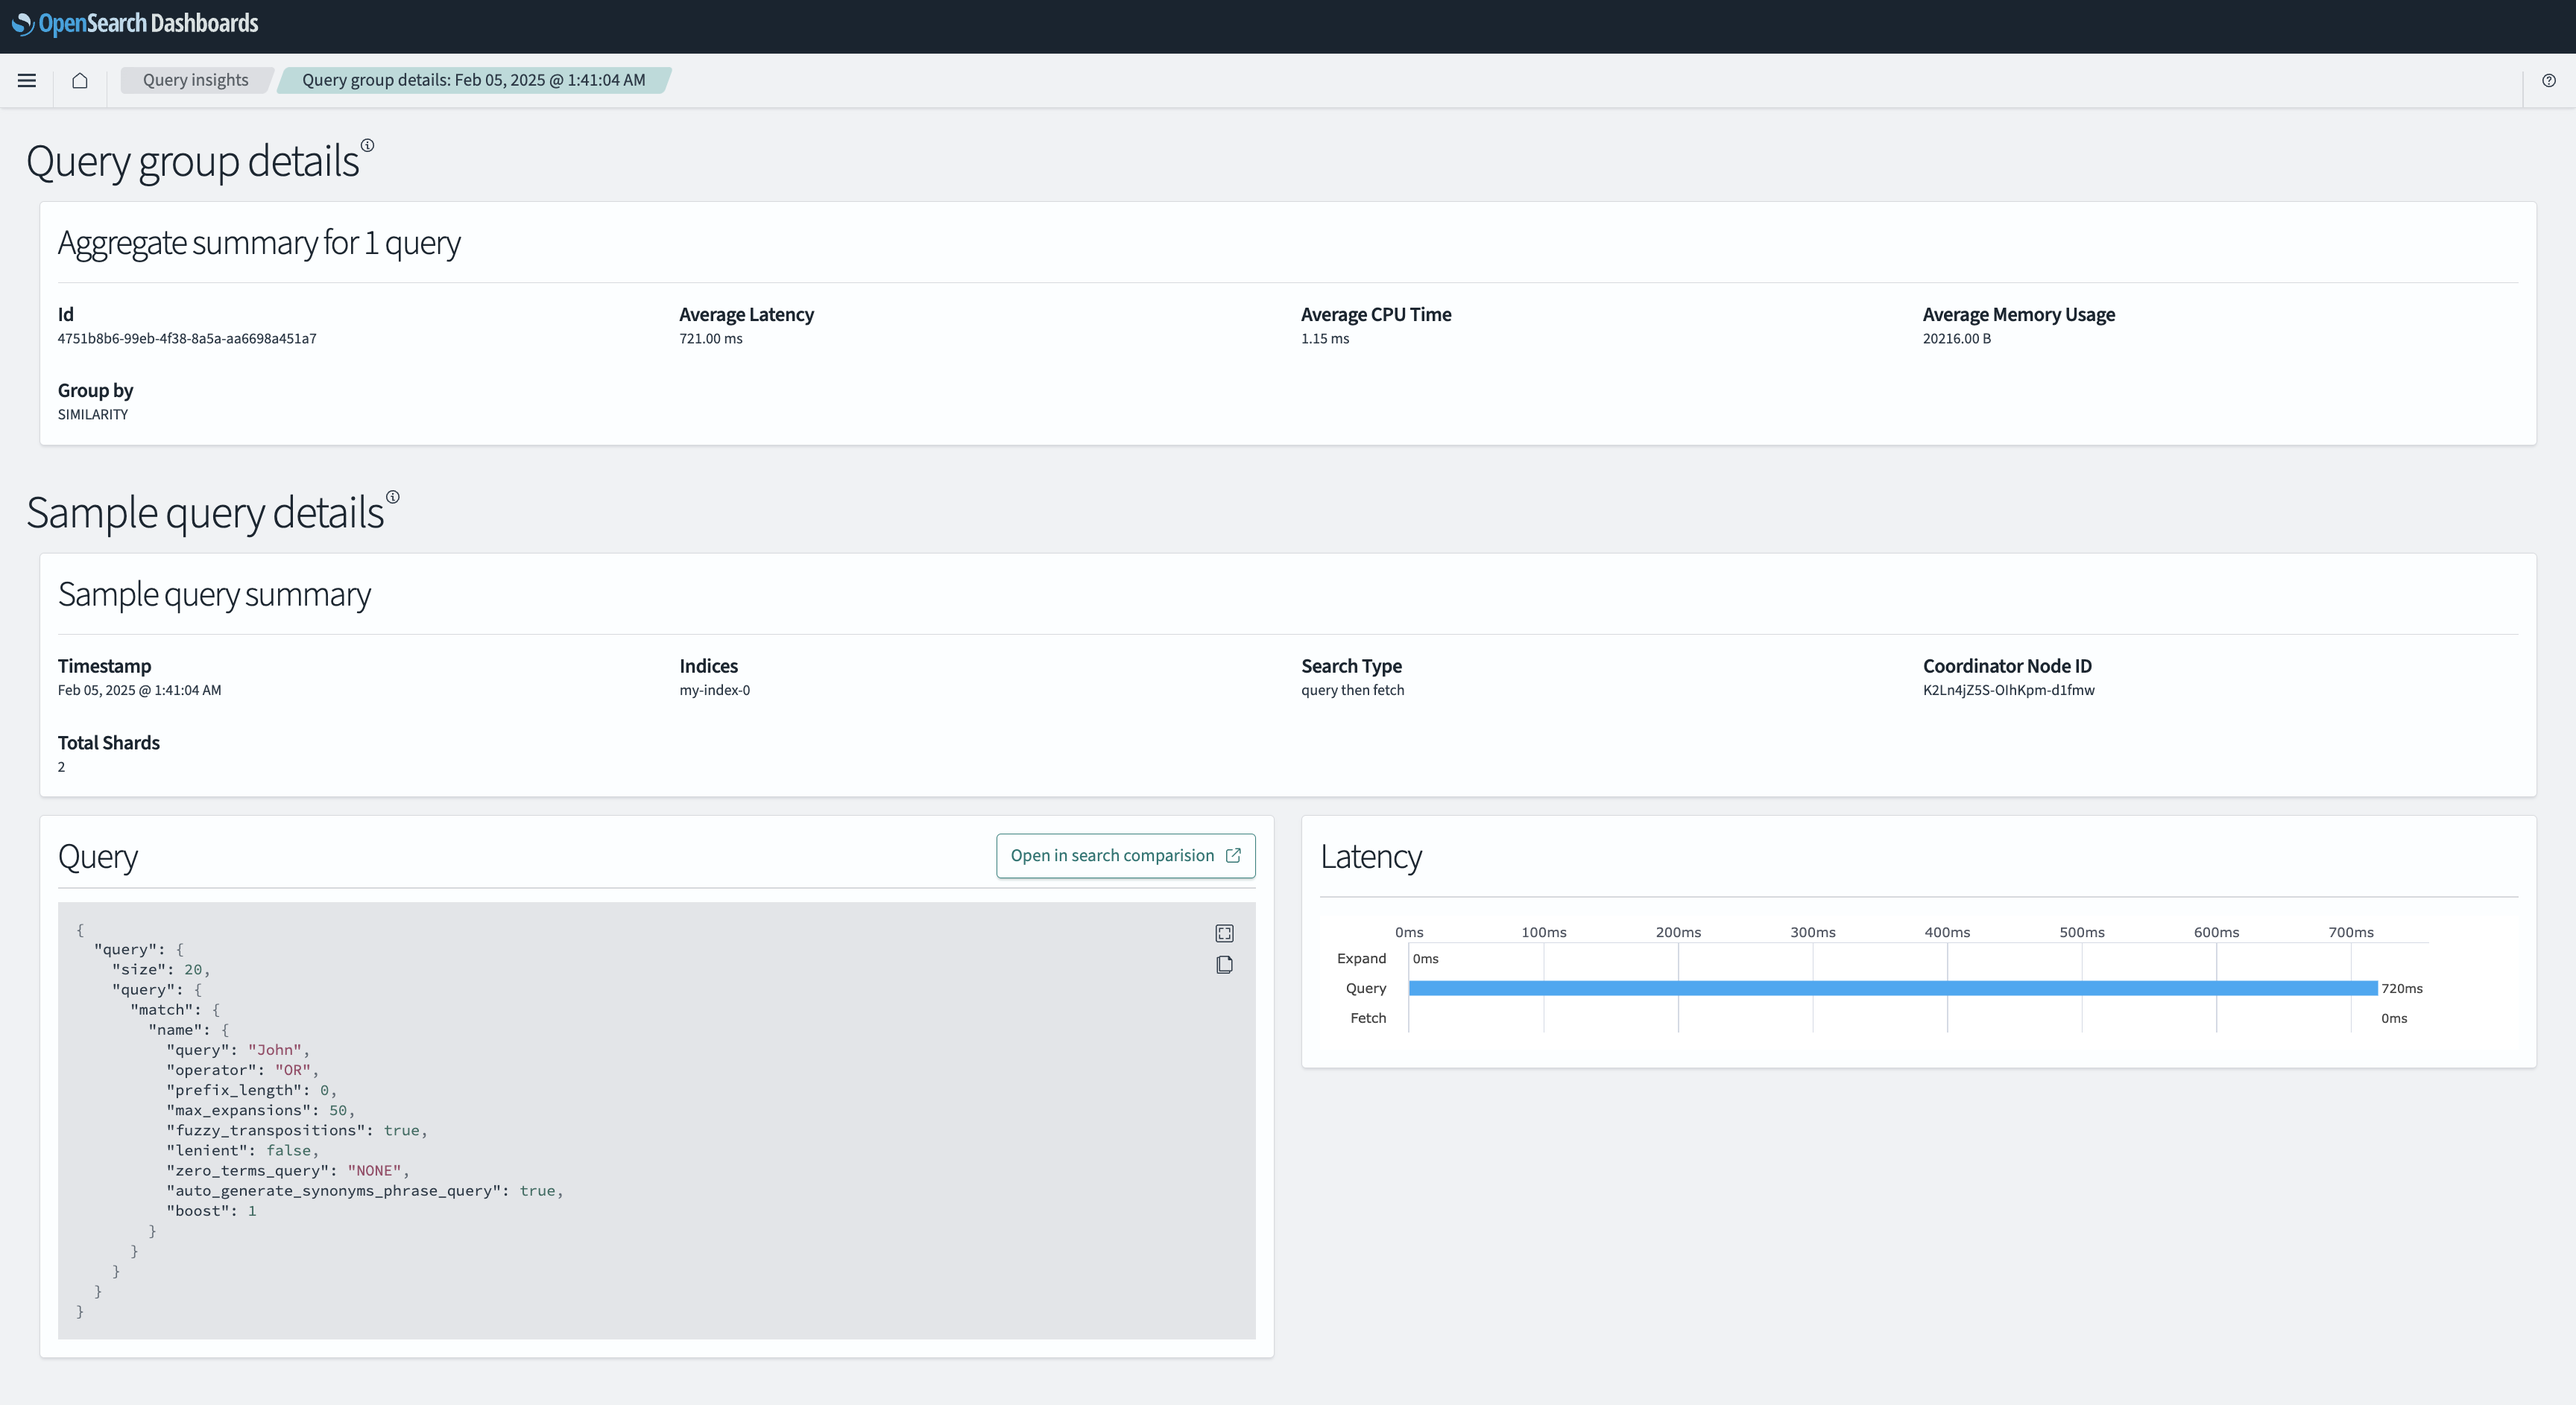
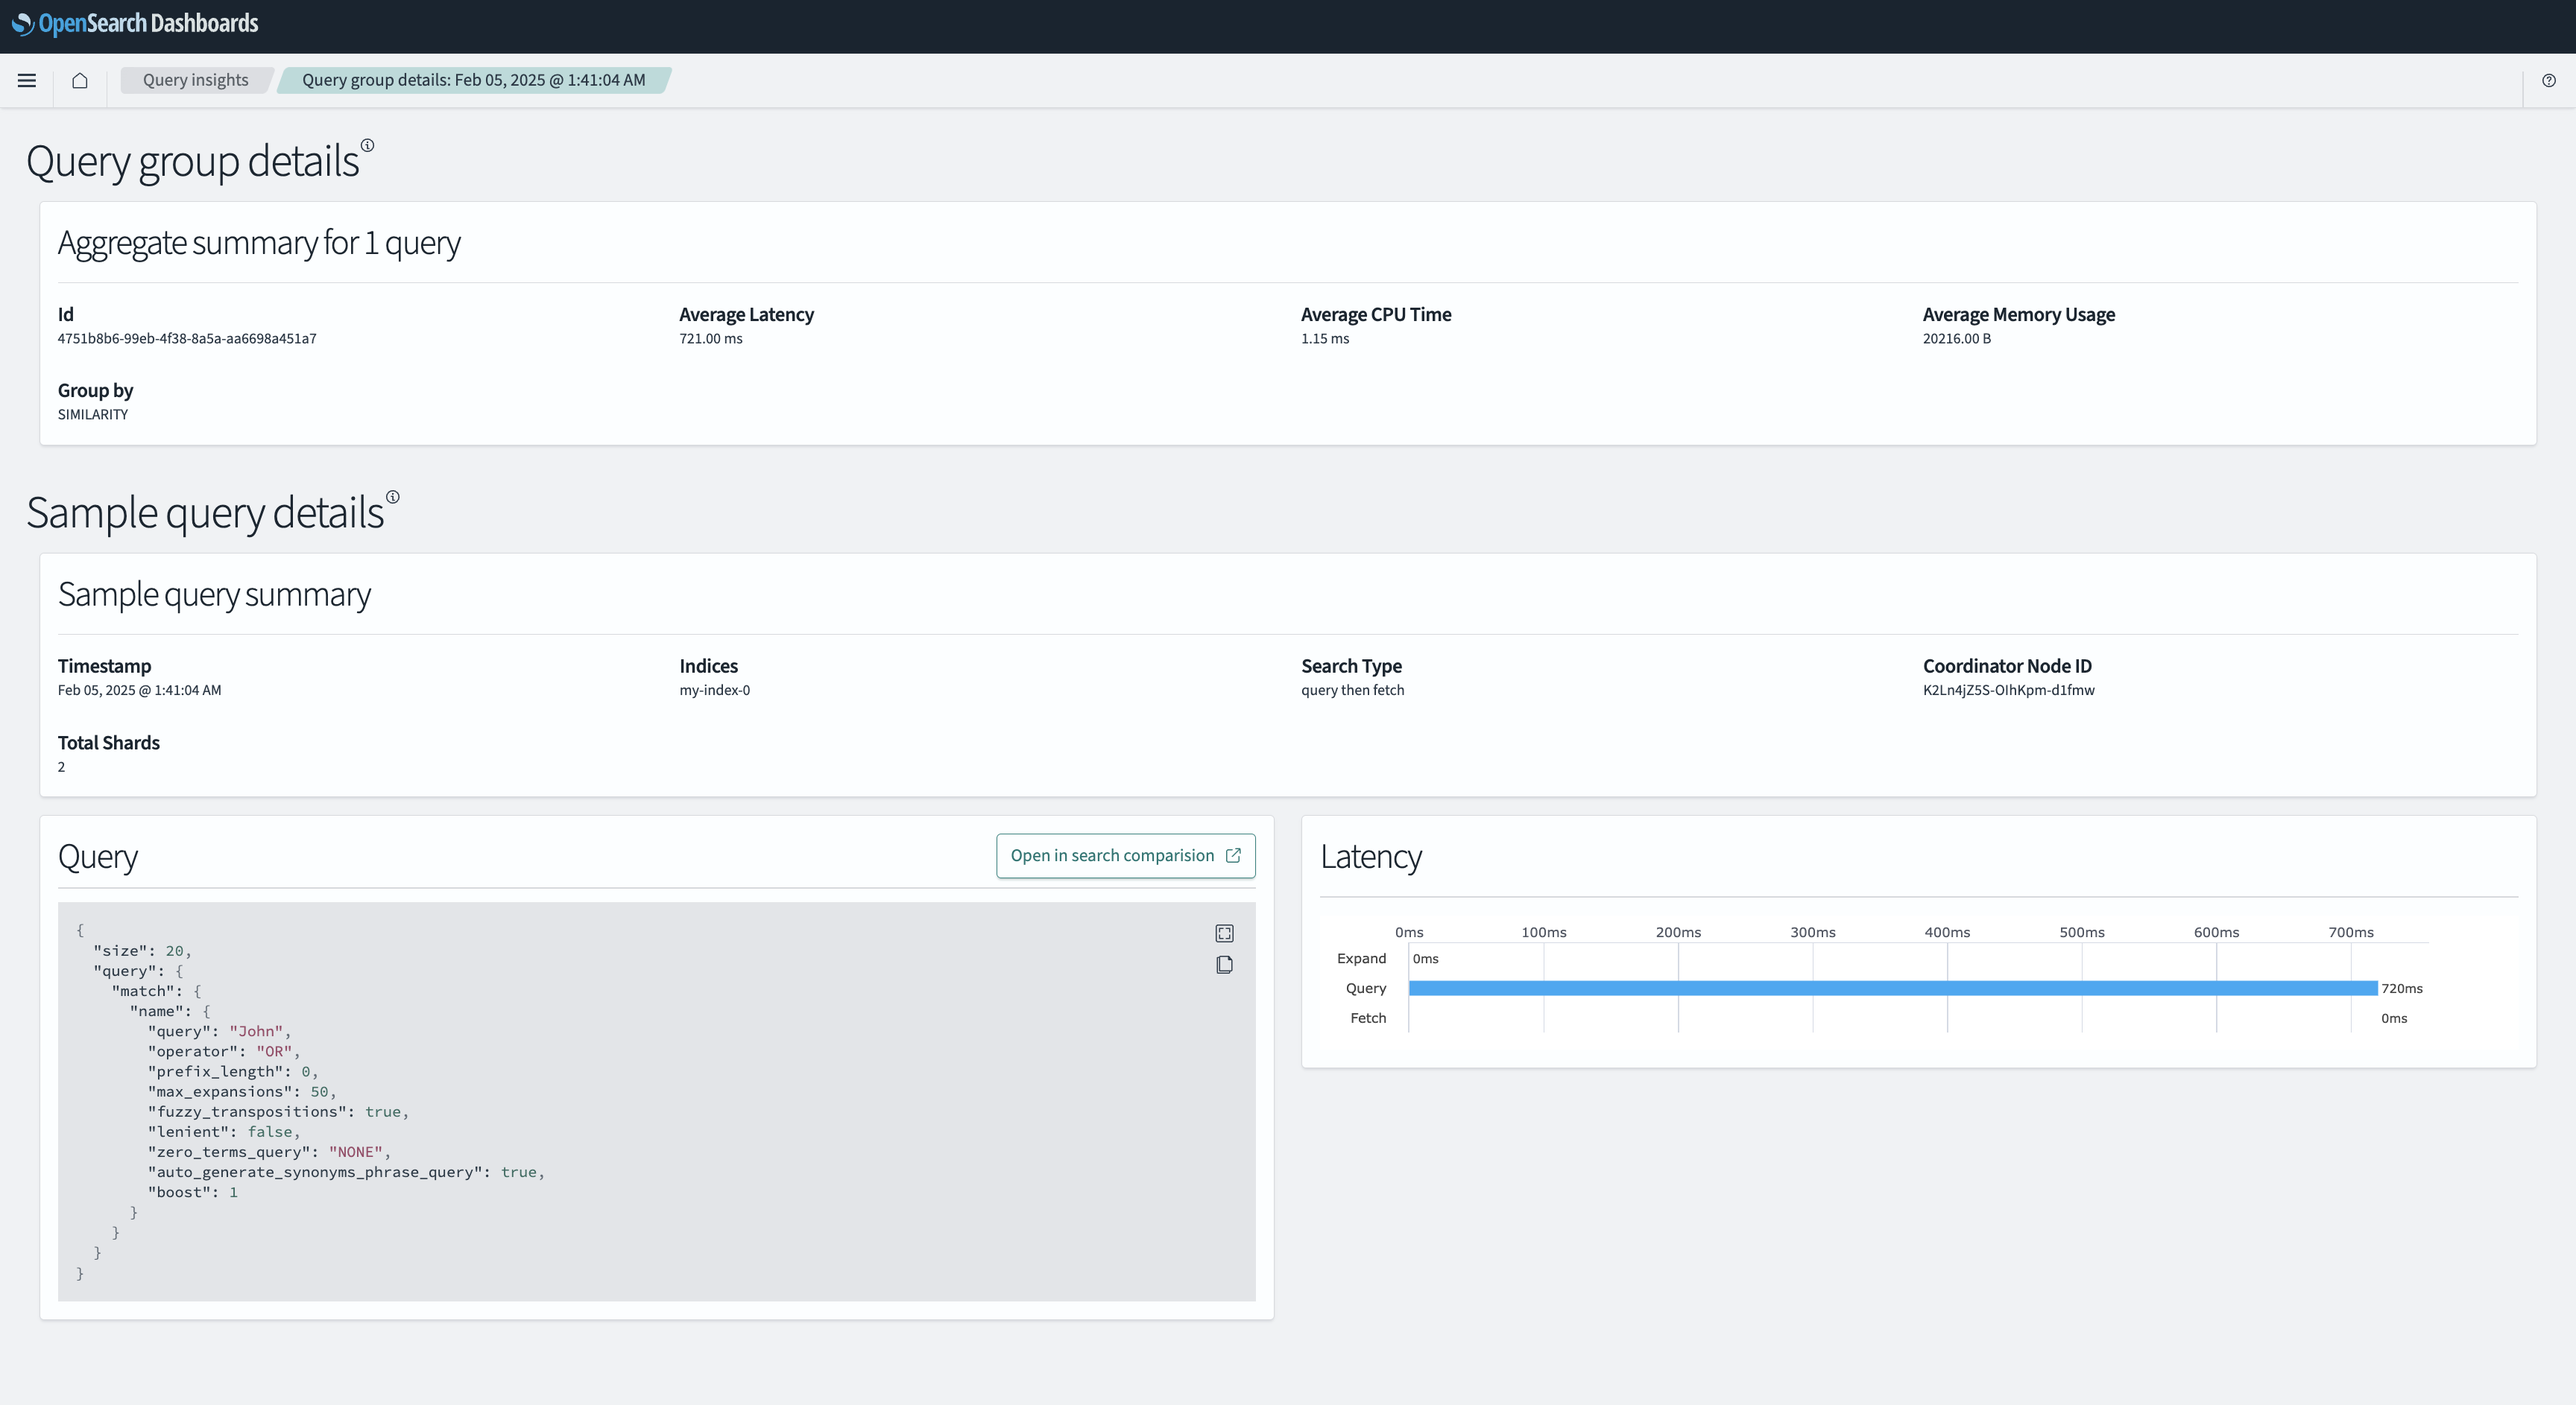
Added source as string and truncation to query insights

Changed region(s): [[0.0, 0.9226, 0.5, 0.9533], [0.0625, 0.7073, 0.2188, 0.8611], [0.0312, 0.6766, 0.0625, 0.7073]]

diff --git a/_observing-your-data/query-insights/top-n-queries.md b/_observing-your-data/query-insights/top-n-queries.md
@@ -70,6 +70,22 @@ PUT _cluster/settings
 ```
 {% include copy-curl.html %}
 
+## Configuring source truncation
+
+To manage memory usage and response size, you can configure the maximum length (in characters) of the query source stored in top N query records. The default `max_source_length` is `524288` characters (1 MB). For example, to limit the source length to 1000 characters, update the `search.insights.top_queries.max_source_length` setting:
+
+```json
+PUT _cluster/settings
+{
+  "persistent" : {
+    "search.insights.top_queries.max_source_length" : 1000
+  }
+}
+```
+{% include copy-curl.html %}
+
+Setting this value to `0` will completely truncate the source, storing no query source information. When the source exceeds the maximum length, it is hard truncated at the character limit, and the `source_truncated` field in the response will be set to `true`.
+
 ## Monitoring current top N queries 
 
 You can use the Insights API endpoint to retrieve the top N queries for the current time window. This API returns top N `latency` results by default.
@@ -110,42 +126,7 @@ Parameter | Data type     | Description
       "indices" : [
         "my-index-0"
       ],
-      "source" : {
-        "size" : 20,
-        "query" : {
-          "bool" : {
-            "must" : [
-              {
-                "match_phrase" : {
-                  "message" : {
-                    "query" : "document",
-                    "slop" : 0,
-                    "zero_terms_query" : "NONE",
-                    "boost" : 1.0
-                  }
-                }
-              },
-              {
-                "match" : {
-                  "user.id" : {
-                    "query" : "userId",
-                    "operator" : "OR",
-                    "prefix_length" : 0,
-                    "max_expansions" : 50,
-                    "fuzzy_transpositions" : true,
-                    "lenient" : false,
-                    "zero_terms_query" : "NONE",
-                    "auto_generate_synonyms_phrase_query" : true,
-                    "boost" : 1.0
-                  }
-                }
-              }
-            ],
-            "adjust_pure_negative" : true,
-            "boost" : 1.0
-          }
-        }
-      },
+      "source" : """{"size":20,"query":{"bool":{"must":[{"match_phrase":{"message":{"query":"document","slop":0,"zero_terms_query":"NONE","boost":1.0}}},{"match":{"user.id":{"query":"userId","operator":"OR","prefix_length":0,"max_expansions":50,"fuzzy_transpositions":true,"lenient":false,"zero_terms_query":"NONE","auto_generate_synonyms_phrase_query":true,"boost":1.0}}}],"adjust_pure_negative":true,"boost":1.0}}}""",
       "task_resource_usages" : [
         {
           "action" : "indices:data/read/search[phase/query]",
@@ -179,6 +160,7 @@ Parameter | Data type     | Description
         "X-Opaque-Id" : "query-label-1"
       },
       "search_type" : "query_then_fetch",
+      "source_truncated" : false,
       "total_shards" : 1,
       "user_roles" : [
         "all_access"
@@ -209,17 +191,7 @@ Parameter | Data type     | Description
       "indices" : [
         "my-index-*"
       ],
-      "source" : {
-        "size" : 20,
-        "query" : {
-          "term" : {
-            "user.id" : {
-              "value" : "userId",
-              "boost" : 1.0
-            }
-          }
-        }
-      },
+      "source" : """{"size":20,"query":{"term":{"user.id":{"value":"userId","boost":1.0}}}}""",
       "task_resource_usages" : [
         {
           "action" : "indices:data/read/search[phase/query]",
@@ -251,6 +223,7 @@ Parameter | Data type     | Description
       },
       "labels" : { },
       "search_type" : "query_then_fetch",
+      "source_truncated" : false,
       "total_shards" : 1,
       "user_roles" : [
         "all_access"

diff --git a/_observing-your-data/query-insights/grouping-top-n-queries.md b/_observing-your-data/query-insights/grouping-top-n-queries.md
@@ -223,13 +223,7 @@ The response contains the top N query groups:
     {
       "timestamp": 1725495127359,
       "wlm_group_id": "DEFAULT_WORKLOAD_GROUP",
-      "source": {
-        "query": {
-          "match_all": {
-            "boost": 1.0
-          }
-        }
-      },
+      "source": """{"query":{"match_all":{"boost":1.0}}}""",
       "phase_latency_map": {
         "expand": 0,
         "query": 55,
@@ -269,6 +263,7 @@ The response contains the top N query groups:
         "all_access"
       ],
       "search_type": "query_then_fetch",
+      "source_truncated": false,
       "measurements": {
         "latency": {
           "number": 160,
@@ -280,16 +275,7 @@ The response contains the top N query groups:
     {
       "timestamp": 1725495135160,
       "wlm_group_id": "DEFAULT_WORKLOAD_GROUP",
-      "source": {
-        "query": {
-          "term": {
-            "content": {
-              "value": "first",
-              "boost": 1.0
-            }
-          }
-        }
-      },
+      "source": """{"query":{"term":{"content":{"value":"first","boost":1.0}}}}""",
       "phase_latency_map": {
         "expand": 0,
         "query": 18,
@@ -329,6 +315,7 @@ The response contains the top N query groups:
         "all_access"
       ],
       "search_type": "query_then_fetch",
+      "source_truncated": false,
       "measurements": {
         "latency": {
           "number": 109,
@@ -340,23 +327,7 @@ The response contains the top N query groups:
     {
       "timestamp": 1725495139766,
       "wlm_group_id": "DEFAULT_WORKLOAD_GROUP",
-      "source": {
-        "query": {
-          "match": {
-            "content": {
-              "query": "first",
-              "operator": "OR",
-              "prefix_length": 0,
-              "max_expansions": 50,
-              "fuzzy_transpositions": true,
-              "lenient": false,
-              "zero_terms_query": "NONE",
-              "auto_generate_synonyms_phrase_query": true,
-              "boost": 1.0
-            }
-          }
-        }
-      },
+      "source": """{"query":{"match":{"content":{"query":"first","operator":"OR","prefix_length":0,"max_expansions":50,"fuzzy_transpositions":true,"lenient":false,"zero_terms_query":"NONE","auto_generate_synonyms_phrase_query":true,"boost":1.0}}}}""",
       "phase_latency_map": {
         "expand": 0,
         "query": 15,
@@ -396,6 +367,7 @@ The response contains the top N query groups:
         "all_access"
       ],
       "search_type": "query_then_fetch",
+      "source_truncated": false,
       "measurements": {
         "latency": {
           "number": 43,

diff --git a/_observing-your-data/query-insights/query-insights-dashboard.md b/_observing-your-data/query-insights/query-insights-dashboard.md
@@ -119,6 +119,7 @@ You can access detailed information about a single query by selecting the query 
 ![Individual Query Details]({{site.url}}{{site.baseurl}}/images/Query-Insights/IndividualQueryDetails.png)
 
 In the query details view, you can view information such as **Timestamp**, **CPU Time**, **Memory Usage**, **Indexes**, **Search Type**, **Coordinator Node ID**, and **Total Shards**.
+If the query source has been truncated due to size limits, it will be displayed as a string instead of formatted JSON.
 
 ### Viewing query group details
 
@@ -130,7 +131,6 @@ To view query group details, select a query ID marked as a "group" in the **Top 
 
 - The **Aggregate summary for queries** section provides a view of key query metrics for the entire group, including **Average latency**, **Average CPU time**, **Average memory usage**, and **Group by** criteria.
 - The **Sample query details** section provides information about a single representative query, including its **Timestamp**, **Indexes**, **Search Type**, **Coordinator Node ID**, and **Total Shards**.
-- The **Query** section displays the JSON structure of the query.
 - The **Latency** section presents a graphical representation of the run phases for the query.
 
 ## Configuration

diff --git a/_observing-your-data/query-insights/health.md b/_observing-your-data/query-insights/health.md
@@ -139,3 +139,4 @@ Field | Description
 `EXPORTER_FAIL_TO_CLOSE_EXCEPTION` | The number of failures that occur when closing the exporter.
 `READER_FAIL_TO_CLOSE_EXCEPTION` | The number of failures that occur when closing the reader.
 `TOP_N_QUERIES_USAGE_COUNT` | The number of times the Top N Queries API is used.
+`TOP_N_QUERIES_SOURCE_TRUNCATION` | The number of times a query source was truncated due to size limit.
